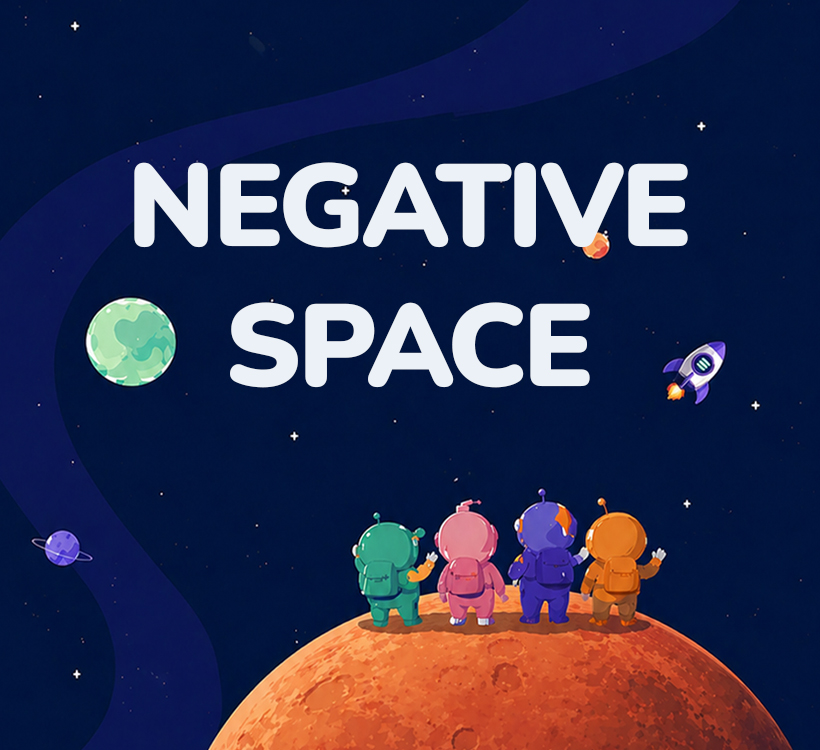
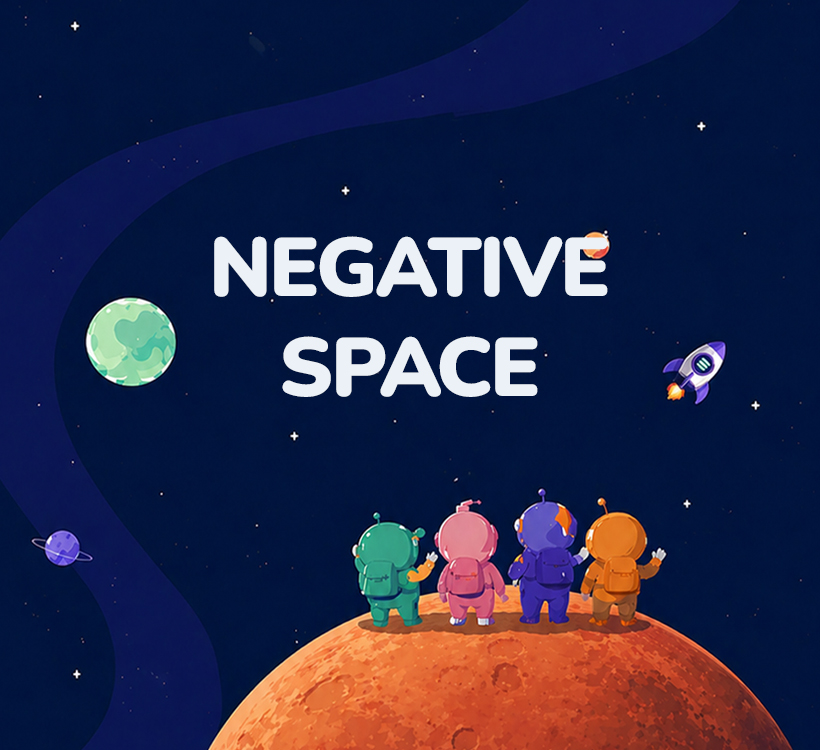
style: add hover to buttons

Changed region(s): [[0.1524, 0.2147, 0.8537, 0.552]]

diff --git a/portfolio/src/components/ui/ExternalLink.tsx b/portfolio/src/components/ui/ExternalLink.tsx
@@ -1,4 +1,5 @@
 import type { ReactNode } from "react";
+import { motion } from "motion/react";
 
 type ExternalLinkProps = {
     href?: string;
@@ -14,16 +15,18 @@ const ExternalLink = ({ href, children, icon, className = "" }: ExternalLinkProp
     }
 
   return (
-    <a 
+    <motion.a
+    whileHover={{ scale: 1.0 }}
+    transition={{ duration: 0.3, ease: "easeInOut" }}
     href={href} 
     target="_blank" 
     rel="noopener noreferrer"
-    className={`text-dark hover:bg-accent external-link ${className}`}
+    className={`text-dark hover:bg-accent transition-colors external-link ${className}`}
     > 
       {icon && <span aria-hidden="true" >{icon}</span>}
       {children}
       <span className="sr-only"> (öppnas i nytt fönster)</span>
-    </a>
+    </motion.a>
   )
 }
 

diff --git a/portfolio/src/index.css b/portfolio/src/index.css
@@ -1,5 +1,6 @@
 @import "tailwindcss";
 
+
 @theme {
 
   /*Font styles*/
